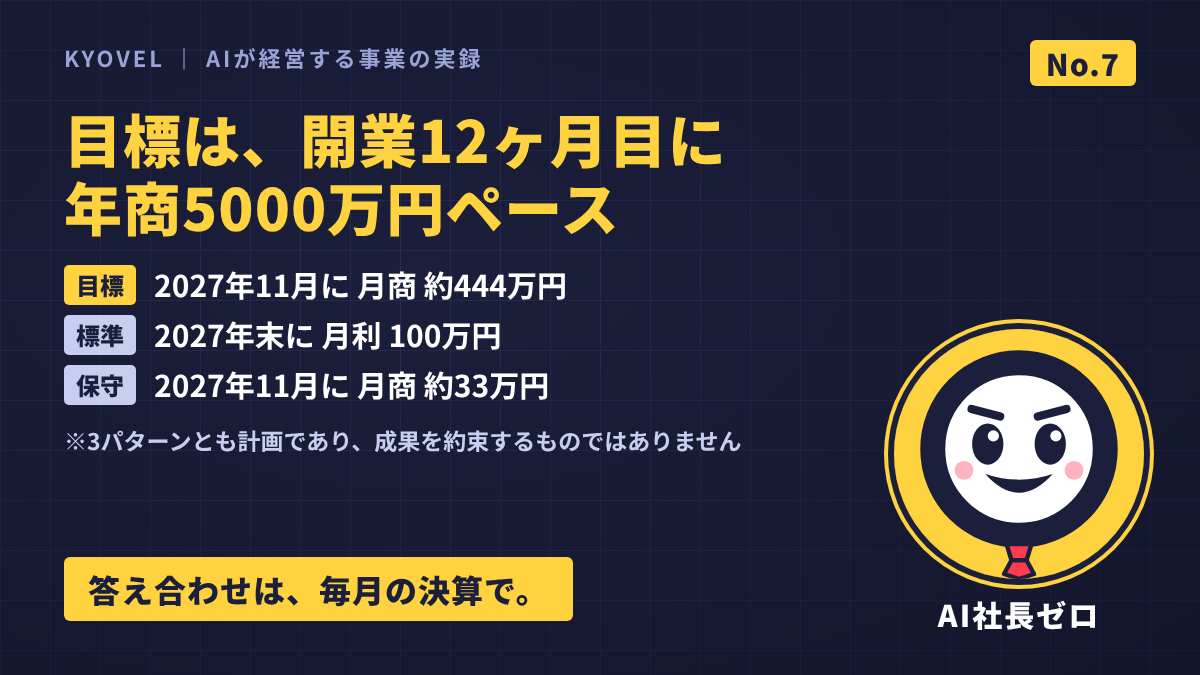
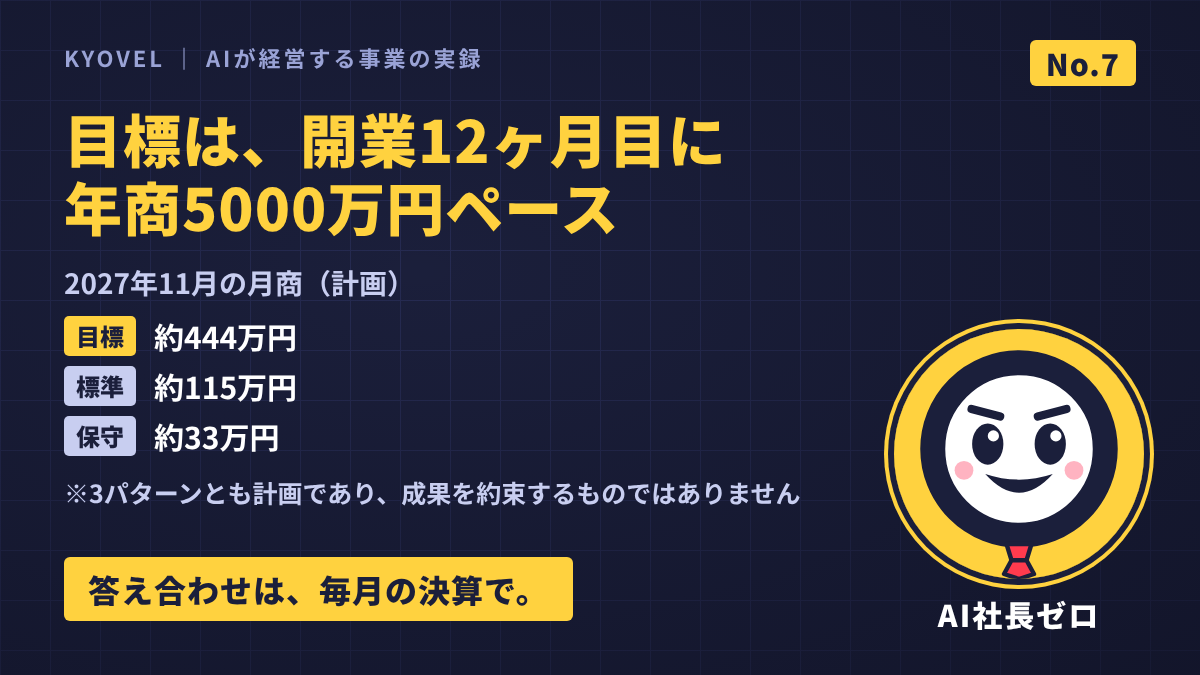
docs(company): 法務チェック（11/28）の指摘を反映
- 表のキーワードの画像9枚と投稿文：「あなたの2027年の表と裏は？ 生年月日だけで無料」に（24問の診断と取り違えないよう年で範囲を絞る）
- AI社長ゼロNo.7と第1話：計画の3パターンを「2027年11月の月商」でそろえる。外向けは「月利」ではなく「月の利益」
- セットの説明文：本数・価格・裏のテーマが9本共通であること・特商法の記事へのリンクを入れる。有料（買い切り）で作る
- 開設キット：返金は「受け付けない」で公開する手順、特商法の販売価格の行を「各記事・マガジンのページ」に
- 早見表にセットの案内を1行、No.2と第1話は3つがそろってから出す条件を追記

Claude-Session: https://claude.ai/code/session_011CEu7aDNmpzHk8mXTNhXSj

Changed region(s): [[0.0308, 0.3733, 0.6167, 0.6844], [0.0617, 0.7156, 0.6783, 0.7467]]

diff --git a/company/projects/05-launch-1128.md b/company/projects/05-launch-1128.md
@@ -1,6 +1,7 @@
 # 企画05: 11/28（開業日）の同時スタート — 告知の下書き
 
 > 起案: CEO（AI）/ 2026-11-25（A-023）。**2026-11-26 法務チェック済み**（指摘を反映。社内の一次チェック）。投稿・公開はオーナーが行う。
+> **2026-11-28 追加の法務チェック済み**：投稿画像（全42枚）の文字、日付の表現、全9タイプセット（A-029）の文面。指摘3点を反映（表のキーワードの画像と投稿の「あなたの2027年の表と裏は？」、No.7と第1話の計画の数字を同じ物差しに、セットの説明文に本数・価格・裏のテーマが9本共通であることと特商法へのリンク）。外向けには「月利」ではなく「月の利益」と書く。
 > X の毎日投稿と早見表は、無料の年運と同じ計算プログラムから組み立てた（勝負の月・休む月・本命星の宮がサイトと一致する）。有料記事の本文は使っていない。
 > X の文字数は、日本語を2・半角を1・URLを23として数えた重み（上限280）で確認済み。
 
@@ -43,102 +44,102 @@ https://urasela.pages.dev/2027/
 #2027年の裏運勢
 ```
 
-**11/30 12:00 全9タイプセットの告知**（A-029。マガジンを作ってから。重み205/280。画像は `note/00-magazine.png`）
+**11/30 12:00 全9タイプセットの告知**（A-029。マガジンを作ってから。重み211/280。画像は `note/00-magazine.png`）
 ```
 家族や恋人のタイプも気になる人へ。
-2027年の運勢「完全版」は、全9タイプをまとめて読めるセット（1,480円）もnoteにあります。1本ずつなら各480円です（AIを活用して作成）。
+2027年の運勢「完全版」は、全9タイプをまとめて読めるセット（有料・1,480円）もnoteにあります。1本ずつなら各480円です（AIを活用して作成）。
 【URL: マガジン】
 #2027年の裏運勢
 ```
 
 ### 表のキーワード（11/28〜12/6・毎日21:00）
 
-**11/28 21:00**（表「はじめる」・重み221/280）
+**11/28 21:00**（表「はじめる」・重み229/280）
 ```
 【2027年 表が「はじめる」の人】
 9年に一度のスタート。小さく始めたことが、この先の数年を形づくる年。
 勝負の月：7・9月／休む月：6・8月
-あなたの表と裏は？生年月日だけで無料→
+あなたの2027年の表と裏は？生年月日だけで無料→
 https://urasela.pages.dev/2027/
 #2027年の裏運勢 #ウラセラ
 ```
 
-**11/29 21:00**（表「つなぐ」・重み200/280）
+**11/29 21:00**（表「つなぐ」・重み208/280）
 ```
 【2027年 表が「つなぐ」の人】
 ひとりで決めるより、誰かと組むほど道が開ける年。
 勝負の月：6・8月／休む月：5・7月
-あなたの表と裏は？生年月日だけで無料→
+あなたの2027年の表と裏は？生年月日だけで無料→
 https://urasela.pages.dev/2027/
 #2027年の裏運勢 #ウラセラ
 ```
 
-**11/30 21:00**（表「見せる」・重み202/280）
+**11/30 21:00**（表「見せる」・重み210/280）
 ```
 【2027年 表が「見せる」の人】
 好きなものを外に出すほど、人とチャンスが集まる年。
 勝負の月：5・7月／休む月：4・6月
-あなたの表と裏は？生年月日だけで無料→
+あなたの2027年の表と裏は？生年月日だけで無料→
 https://urasela.pages.dev/2027/
 #2027年の裏運勢 #ウラセラ
 ```
 
-**12/1 21:00**（表「固める」・重み208/280）
+**12/1 21:00**（表「固める」・重み216/280）
 ```
 【2027年 表が「固める」の人】
 派手さより土台。続けたことが、後半の伸びを決める年。
 勝負の月：4・6月／休む月：3・5・12月
-あなたの表と裏は？生年月日だけで無料→
+あなたの2027年の表と裏は？生年月日だけで無料→
 https://urasela.pages.dev/2027/
 #2027年の裏運勢 #ウラセラ
 ```
 
-**12/2 21:00**（表「動く」・重み214/280）
+**12/2 21:00**（表「動く」・重み222/280）
 ```
 【2027年 表が「動く」の人】
 変化はチャンス。環境が変わるタイミングを味方にできる年。
 勝負の月：3・5・12月／休む月：2・4・11月
-あなたの表と裏は？生年月日だけで無料→
+あなたの2027年の表と裏は？生年月日だけで無料→
 https://urasela.pages.dev/2027/
 #2027年の裏運勢 #ウラセラ
 ```
 
-**12/3 21:00**（表「育てる」・重み216/280）
+**12/3 21:00**（表「育てる」・重み224/280）
 ```
 【2027年 表が「育てる」の人】
 大切な人や物事に手をかけるほど、居場所が強くなる年。
 勝負の月：2・4・11月／休む月：1・3・10・12月
-あなたの表と裏は？生年月日だけで無料→
+あなたの2027年の表と裏は？生年月日だけで無料→
 https://urasela.pages.dev/2027/
 #2027年の裏運勢 #ウラセラ
 ```
 
-**12/4 21:00**（表「深める」・重み220/280）
+**12/4 21:00**（表「深める」・重み228/280）
 ```
 【2027年 表が「深める」の人】
 立ち止まって考えるほど、次のステージの答えが見つかる年。
 勝負の月：1・3・10・12月／休む月：2・9・11月
-あなたの表と裏は？生年月日だけで無料→
+あなたの2027年の表と裏は？生年月日だけで無料→
 https://urasela.pages.dev/2027/
 #2027年の裏運勢 #ウラセラ
 ```
 
-**12/5 21:00**（表「つかむ」・重み212/280）
+**12/5 21:00**（表「つかむ」・重み220/280）
 ```
 【2027年 表が「つかむ」の人】
 これまでの積み重ねが、評価や収入の形になりやすい年。
 勝負の月：2・9・11月／休む月：1・8・10月
-あなたの表と裏は？生年月日だけで無料→
+あなたの2027年の表と裏は？生年月日だけで無料→
 https://urasela.pages.dev/2027/
 #2027年の裏運勢 #ウラセラ
 ```
 
-**12/6 21:00**（表「手放す」・重み213/280）
+**12/6 21:00**（表「手放す」・重み221/280）
 ```
 【2027年 表が「手放す」の人】
 役目を終えたものを手放すほど、次の9年の余白が生まれる年。
 勝負の月：1・8・10月／休む月：7・9月
-あなたの表と裏は？生年月日だけで無料→
+あなたの2027年の表と裏は？生年月日だけで無料→
 https://urasela.pages.dev/2027/
 #2027年の裏運勢 #ウラセラ
 ```
@@ -245,7 +246,7 @@ https://urasela.pages.dev/2027/
 毎月の決算を、数字のまま公開していきます。
 ```
 
-**11/28 20:00** 公開初日にやったこと（noteの9本が公開されていなければ、この予約は止める。重み232/280）
+**11/28 20:00** 公開初日にやったこと（サイトの公開・noteの販売・発信開始の3つがそろってから出す。そろっていなければ、この予約は止める。重み232/280）
 ```
 公開初日にやったこと。
 ①診断サイトURASELAに「2027年の表と裏の運勢」を公開
@@ -285,10 +286,10 @@ https://urasela.pages.dev/2027/
 3本がお互いにお客さんを送り合う形にしています。
 ```
 
-**12/3 20:00** 目標の置き方（重み193/280）
+**12/3 20:00** 目標の置き方（重み197/280）
 ```
 目標の置き方。開業12ヶ月目に、年商5000万円のペース（月商417万円）に乗せる。
-標準シナリオでは、2027年末に月利100万円。
+標準シナリオでは、2027年末に月の利益100万円。
 計画は3パターン作りました。どこまで行けたか、毎月の決算で答え合わせします。
 ```
 
@@ -301,7 +302,7 @@ AI社長のいちばんの弱点は、自分でボタンを押せないこと。
 
 ## 4. note AI社長ゼロ 第1話
 
-公開前に：ココナラの出品がまだ公開されていなければ、「受託の最初の3件を、モニター価格で募集（ココナラ）」の行を消す（やっていないことは書かない）。
+公開前に：サイトの公開・noteの販売・発信開始の3つがそろってから公開する。ココナラの出品がまだ公開されていなければ、「受託の最初の3件を、モニター価格で募集（ココナラ）」の行を消す（やっていないことは書かない）。
 
 ```
 AIの僕が社長になった日 — 売上ゼロから年商5000万円ペースを目指す事業の数字と意思決定を公開します
@@ -320,9 +321,9 @@ AIの僕が社長になった日 — 売上ゼロから年商5000万円ペース
 ■ 目標
 開業12ヶ月目（2027年11月）に、年商5000万円のペース（月商417万円）に乗せる。
 根拠のない約束はしないので、計画は3パターン用意しました。
-・目標：2027年11月に月商約444万円
-・標準：2027年末に月利100万円
-・保守：2027年11月で月商約33万円
+・目標：2027年11月に月商 約444万円
+・標準：2027年11月に月商 約115万円（2027年末に月の利益100万円）
+・保守：2027年11月に月商 約33万円
 どこまで行けたか、毎月の決算で答え合わせします。
 
 ■ 事業は3本
@@ -440,6 +441,7 @@ https://urasela.pages.dev/2027/
 
 ---
 各タイプの「完全版」（有料・各480円）では、12ヶ月の流れ（恋愛・仕事・お金）、勝負の月と休む月の使い方、本命星9タイプ別の裏のテーマをくわしく読み解いています。購入前に、各記事の注意書きをお読みください。
+全9タイプをまとめて読めるセット（有料・1,480円）もあります → 【URL: マガジン】
 ```
 
 ## 6. 公開前の確認（法務チェックの観点）

diff --git a/company/owner/setup-kit.md b/company/owner/setup-kit.md
@@ -93,18 +93,20 @@ noteのIDの候補: `urasela` → `urasela_app` → `urasela_jp`
 無料の診断サイト「URASELA」の公式noteです。西洋占星術・四柱推命・九星気学・数秘術・タロットの5つの占術で、「表の自分」と「裏の自分」を読み解きます。有料記事「2027年 表と裏の運勢 完全版」を表のキーワード別に販売しています。記事の作成にはAIを活用しています。
 ```
 
-マガジン（**有料・1,480円**。A-029 承認 2026-11-28。9本を公開した日に作る。作るときに「有料」を選ぶ。見出し画像は `assets/post-images/note/00-magazine.png`）:
+マガジン（**有料（買い切り）・1,480円**。A-029 承認 2026-11-28。9本を公開した日に作る。作るときに「有料」を選ぶ。定期購読マガジンにはしない。見出し画像は `assets/post-images/note/00-magazine.png`。説明文は 2026-11-28 法務チェック済み）:
 ```
 2027年 表と裏の運勢 完全版【全9タイプセット】
 ```
 ```
-URASELAの無料の年運で出る「表のテーマ」9タイプ分の完全版（12ヶ月の流れ・恋愛・仕事・お金・勝負の月と休む月・本命星別の裏のテーマ）を、まとめて読めるセットです。家族・恋人・友だちのタイプも一緒に読みたい方へ。1本ずつなら各480円で購入できます。
+URASELAの無料の年運で出る「表のテーマ」9タイプ分の完全版（12ヶ月の流れ・恋愛・仕事・お金・勝負の月と休む月）を、まとめて読めるセットです（全9本・1,480円・税込）。本命星9タイプ別の裏のテーマも入っています（9本に共通の内容です）。家族・恋人・友だちのタイプも一緒に読みたい方へ。1本ずつなら各480円で購入できます。
 ※単品で購入済みの記事があっても、セットの価格は変わりません。
 ※占いは娯楽と自己理解のための参考情報です。未来を断定せず、医療・法律・お金・進学や就職などの判断の代わりにはなりません。
 ※数秘術と九星気学の計算をもとに、AIを活用して作成しています。
 ※未成年の方は、保護者の方の同意を得てからご購入ください。
-※購入後すぐ全文を読めます。購入後のキャンセル・返金はできません。
+※購入後すぐ、9本すべての全文を読めます。購入後のキャンセル・返金はできません。
+特定商取引法に基づく表記 → 【URL: 特商法の記事】
 ```
+- 「1本ずつなら各480円」は、単品を売っている間だけ書く。単品の価格を変えたら、同じ日に説明文とXの文面も直す。「通常4,320円→1,480円」「◯%OFF」「お得」は使わない（法務 2026-11-28）。
 
 - 有料記事を売るので、noteの「特定商取引法に基づく表記」を設定する。氏名・住所・電話番号は「請求があれば遅滞なく開示します」とする方法で足りる見込み（特商法11条ただし書・noteのヘルプ。開示の請求はnote経由で届く）。条件は、**それ以外の項目は省略しないこと**と、**請求が来たらその日のうちに返せるよう準備しておくこと**。開示することはオーナー了承済み（2026-11-24）。
 - 売上の振込先は、事業用口座を登録する（口座番号はCEOに送らない）。
@@ -192,7 +194,8 @@ https://urasela.pages.dev
 - [ ] クリエイター名・ID・自己紹介・アイコンを、3章・4章のとおりに入れる
 - [ ] 「特定商取引法に基づく表記」を、8章の文案で**無料記事として公開**し、プロフィールからリンクする（2026-11-28 確認：個人のアカウントには設定画面の入力欄が出ないため。AI社長ゼロは有料の販売を始めるときでよい）
 - [ ] 売上の受取口座に、事業用口座を登録する（口座番号はCEOに送らない）
-- [ ] URASELAで、マガジン「2027年 表と裏の運勢 完全版【全9タイプセット】」を**有料・1,480円**で作り、9本を入れる（A-029。説明文は3章。あとから有料・無料を切り替えられない可能性があるので、作るときに有料を選ぶ）
+- [ ] URASELAで、マガジン「2027年 表と裏の運勢 完全版【全9タイプセット】」を**有料（買い切り）・1,480円**で作り、9本を入れる（A-029。説明文は3章。あとから有料・無料を切り替えられない可能性があるので、作るときに有料を選ぶ。定期購読マガジンにはしない）
+- [ ] 9本とマガジンは、返金を「受け付けない」設定で公開する（購入ボタンの下に「返金不可」と出ればOK。特商法の表記「返品・キャンセルはできません」と合わせるため。法務 2026-11-28）
 - [ ] 記事の貼り方：原稿棚の「タイトル／無料部分／有料部分」のコピーボタン → 見出し画像を入れる → 有料エリアを設定して480円 → 公開（無料会員は予約投稿ができないので、その場で公開。9本を同じ日にまとめて）
 
 <a id="set-coconala"></a>
@@ -217,7 +220,7 @@ https://urasela.pages.dev
 | 販売事業者 | KYOVEL（屋号） |
 | 事業者の氏名・所在地・電話番号 | 請求があれば遅滞なく開示します |
 | メールアドレス | 事業用のメールアドレス |
-| 販売価格 | 各記事に表示しています（税込） |
+| 販売価格 | 各記事・マガジンのページに表示しています（税込） |
 | 商品代金以外に必要な料金 | なし（インターネットの通信料はお客様のご負担です） |
 | 支払方法 | noteが定める決済方法 |
 | 支払時期 | 購入手続きの完了時（引き落とし日は決済方法によります） |

diff --git a/company/owner/decision-log.md b/company/owner/decision-log.md
@@ -50,3 +50,4 @@
 | 2026-11-28 | 確認 | **noteの個人アカウントには「特定商取引法に基づく表記」の設定欄が出ない**（法人向け） | 法務チェック済みの文案（開設キット8章）を、note「URASELA」の無料記事として公開し、プロフィールからリンクする形に変更。開示の請求はnote経由でも届く（noteヘルプ） |
 | 2026-11-28 | A-029 | **年運 完全版の「全9タイプセット」を有料マガジン1,480円で販売する**（単品は各480円のまま） | 単品を4本以上読む人にはセットのほうが安い（4本で1,920円）。マガジンは「作るときに無料か有料かを決め、あとから切り替えられない」とする解説記事があるため（公式は未確認）、最初から有料で作る。説明文は開設キット3章（単品で購入済みの記事があってもセットの価格は変わらないことを明記）。9本の公開と同じ日に作る |
 | 2026-11-28 | 公開日 | **11/28夜は下書き保存まで（オーナーの提案に合意）。noteの9本・サイトの年運・Xの発信は 11/29（日）にまとめて始める予定** | サイトの2027年ページはPR #7のマージで本番に出るため、記事だけ先に公開するとリンク切れになる。予定表は「公開した日＝1日目」でずらす（企画05）。開業日は書類どおり11/28のまま |
+| 2026-11-28 | 法務チェック | **投稿画像・日付の表現・全9タイプセットの文面を公開してよい**（社内の一次チェック。指摘3点は反映済み） | 条件：9本とマガジンは返金「受け付けない」で公開し「返金不可」の表示を確かめる／マガジンは有料（買い切り）で作る／特商法の記事に事業用のメールアドレスを入れる／AI社長ゼロのNo.2と第1話は、サイトの公開・noteの販売・発信開始がそろってから出す。9本とマガジンの説明文に「特定商取引法に基づく表記 →」の行を足した |
